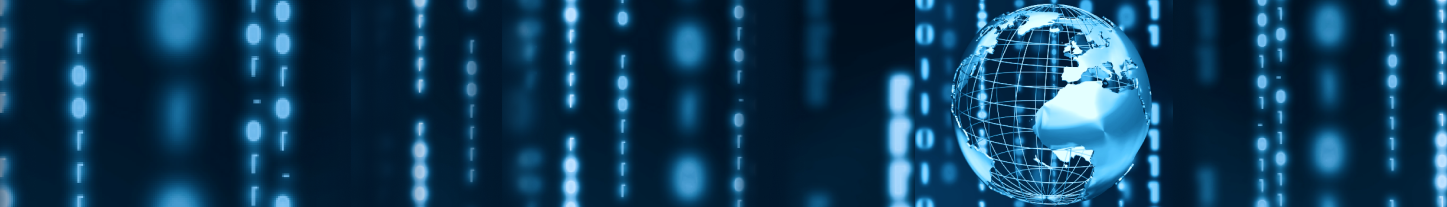
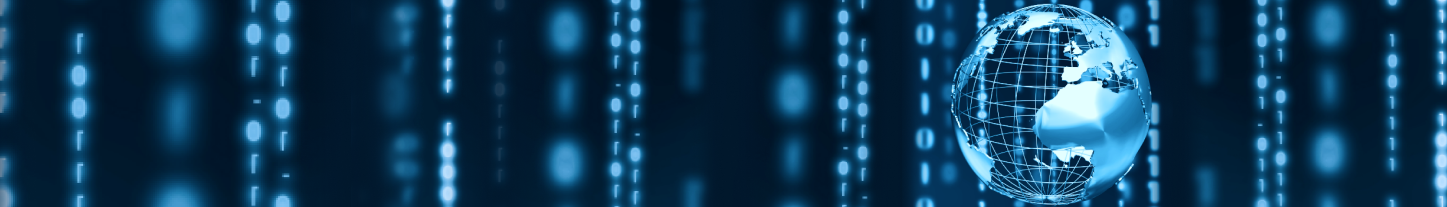
some

diff --git a/styles/adapt.css b/styles/adapt.css
@@ -250,6 +250,9 @@
     margin-bottom: 20px;
   }
 
+  .products-desc {
+    width: 50%;
+  }
 }
 
 @media screen and (max-width: 900px) {
@@ -257,6 +260,7 @@
     grid-template-columns: repeat(3, 1fr);
   }
 }
+
 @media screen and (max-width: 835px) {
   .header-container {
     display: flex;
@@ -510,6 +514,10 @@
     font-size: 20px;
   }
 
+  .rights {
+    font-size: 15px;
+  }
+
   .success-popup-body {
     width: 70%;
     padding: 35px 20px;
@@ -562,15 +570,19 @@
     grid-template-columns: 15% 1fr;
     column-gap: 15px;
   }
+
   .partner-item-name {
     font-size: 16px;
   }
+
   .partner-item-link {
     font-size: 14px;
   }
+
   .partner-item-info {
     gap: 15px;
   }
+
   .partner-item-service {
     font-size: 14px;
   }
@@ -601,9 +613,11 @@
   .products-desc {
     font-size: 12px;
   }
+
   .products-items {
     grid-template-columns: repeat(2, 1fr);
   }
+
   .products-item {
     font-size: 14px;
   }
@@ -802,6 +816,10 @@
   .partner-body {
     padding: 0 0;
   }
+
+  .products-desc {
+    width: 60%;
+  }
 }
 
 @media screen and (max-width: 600px) {
@@ -928,9 +946,11 @@
   .partner-item {
     grid-template-columns: 20% 1fr;
   }
+
   .partner-item-name {
     font-size: 14px;
   }
+
   .partner-item-link {
     font-size: 12px;
   }
@@ -1183,10 +1203,12 @@
     column-gap: 30px;
     row-gap: 30px;
   }
+
   .products-filter-button {
     margin: 0 auto 10px;
     width: 100%;
   }
+
   .partners-title,
   .what-we-title,
   .services-title,
@@ -1291,11 +1313,11 @@
   }
 
   .subtitle {
-    font-size: 16px;
+    font-size: 13px;
   }
 
   .contacts-item, .address-place {
-    font-size: 13px;
+    font-size: 12px;
   }
 
   .rights {
@@ -1349,8 +1371,17 @@
   .partner-text-item-desc {
     font-size: 12px;
   }
+
   .products-items {
+    padding: 10px 10px;
     grid-template-columns: 1fr;
+    row-gap: 5px;
+    margin-bottom: 20px;
+  }
+
+  .partner-items {
+    padding: 10px 10px;
+    row-gap: 10px;
   }
 
   .partner-item {
@@ -1360,12 +1391,25 @@
   .partner-item-image img {
     width: 30%;
   }
+
   .partner-item-body {
     border-left: none;
   }
+
+  .partner-item-head {
+    padding: 10px 0 5px;
+    gap: 15px;
+  }
+
   .partner-item-name {
     font-size: 14px;
   }
+
+  .partner-item-info {
+    padding: 5px 0;
+    gap: 15px;
+  }
+
   .partner-item-link {
     font-size: 12px;
   }

diff --git a/styles/styles.css b/styles/styles.css
@@ -1725,7 +1725,7 @@ textarea {
   background: rgb(38 70 149 / 90%);
   padding: 5px 10px 5px 10px;
   box-shadow: 0 0 8px 2px rgb(255 255 255);
-  width: max-content;
+  width: 40%;
 }
 
 .products-items {
@@ -1795,7 +1795,7 @@ textarea {
   align-items: center;
   justify-content: space-between;
   border-bottom: 1px solid #264695;
-  padding: 10px 20px 10px 10px;
+  padding: 10px 10px 10px 10px;
   gap: 20px;
 }
 
@@ -1820,7 +1820,7 @@ textarea {
   display: flex;
   align-items: center;
   justify-content: space-between;
-  padding: 10px 20px 10px 10px;
+  padding: 10px 10px 10px 10px;
   border-top: 1px solid #264695;
   gap: 20px;
 }

diff --git a/main.js b/main.js
@@ -721,7 +721,7 @@ ${language === 'ru' ? 'Подробнее' : 'Details'}</a></div></div>`
   function goToNewElem(elem) {
     setTimeout(() => {
       elem.scrollIntoView({block: "center", behavior: "smooth"});
-    }, 500);
+    }, 100);
   }
 })();
 
